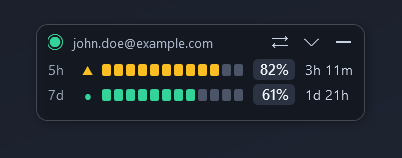
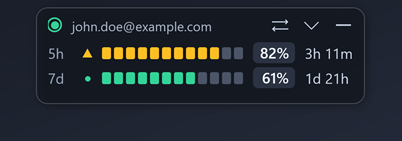
The tray shows the session, the radio is a circle, the shots are resampled
Three things, all things you notice rather than read about:

The tray number was whichever window was worst, which in practice meant the weekly -
a figure that barely moves and that nobody checks the tray for. It is the 5-hour
number now, the one being spent. The colour still follows the worst window, so the
icon can't look calm while the weekly is the thing about to stop you, the hover names
both, and the warnings still say which window they mean.

The account radio was a Segoe MDL2 glyph at 13px. Text is hinted onto whole pixels,
so depending on where the pill happened to land, the left of the ring was flattened
into a straight edge - a circle with a slice cut out of it. It is two ellipses now:
shapes are anti-aliased, not hinted, and a circle stays a circle wherever it sits.

`--demo --scale=3` lays the whole pill out three times bigger; docs/screenshots.ps1
shoots that and resamples it down, so the README images have smooth edges instead of
the app's own hinted 11px text enlarged. The menu shots use 2x, because a 3x menu is
taller than the screen and Windows scrolls it.

diff --git a/src/ClaudeBar/MainWindow.xaml b/src/ClaudeBar/MainWindow.xaml
@@ -16,6 +16,12 @@
         TextOptions.TextFormattingMode="Display"
         TextOptions.TextRenderingMode="ClearType">
 
+  <!-- Root exists to carry the screenshot scale (see Demo.ApplyScale). The transform has to
+       sit OUTSIDE the shell's margin: on the shell itself, the margin is measured in the
+       parent's space and would stay 10px while the shadow grew, which is the clipping this
+       margin exists to prevent. -->
+  <Grid x:Name="Root">
+
   <!-- The margin is the room the drop shadow falls into. Without it the blur is clipped by
        the window's own rectangle, which draws exactly what it sounds like: square, faintly
        grey corners around the rounded pill. Everything that positions the pill measures the
@@ -67,11 +73,15 @@
                   <ColumnDefinition Width="Auto"/>
                 </Grid.ColumnDefinitions>
 
-                <!-- Radio: filled for the active account; click an empty one to switch. -->
+                <!-- Radio: filled for the active account; click an empty one to switch.
+                     Two ellipses rather than a font glyph - shapes are anti-aliased, not
+                     hinted, so the ring stays a full circle wherever the pill lands. -->
                 <Border Grid.Column="0" Tag="radio" Style="{StaticResource Tap}"
                         Padding="3,1,6,1" Margin="-4,0,2,0" ToolTip="{Binding RadioTip}">
-                  <TextBlock Text="{Binding Glyph}" Foreground="{Binding GlyphBrush}"
-                             FontFamily="Segoe MDL2 Assets" FontSize="13" VerticalAlignment="Center"/>
+                  <Grid Width="12" Height="12" VerticalAlignment="Center">
+                    <Ellipse Stroke="{Binding RadioStroke}" StrokeThickness="1.3"/>
+                    <Ellipse Width="6" Height="6" Fill="{Binding RadioFill}"/>
+                  </Grid>
                 </Border>
 
                 <TextBlock Grid.Column="1" Text="{Binding Email}" Foreground="#A9B4C8"
@@ -204,4 +214,6 @@
       </StackPanel>
     </StackPanel>
   </Border>
+
+  </Grid>
 </Window>

diff --git a/src/ClaudeBar/MainWindow.xaml.cs b/src/ClaudeBar/MainWindow.xaml.cs
@@ -38,6 +38,12 @@ public partial class MainWindow : Window
         _multi = new MultiAccountUsage(_usage);
         InitializeComponent();
 
+        Demo.ApplyScale(Root);
+        if (Demo.Scale != 1)
+            // Display formatting hints glyphs onto whole pixels, which is right at the size
+            // the pill is normally drawn and wrong when the shot is about to be resampled.
+            TextOptions.SetTextFormattingMode(this, TextFormattingMode.Ideal);
+
         ApplyOpacity();
         ContextMenu = BuildMenu();
 
@@ -330,11 +336,16 @@ public partial class MainWindow : Window
         if (active is not null)
         {
             var snap = active.Snapshot;
-            var worst = snap.Worst;
+
+            // Every window, in the order the pill draws them - the icon only has room for the
+            // 5-hour number, so the hover is where the weekly gets to say its piece.
+            var summary = string.Join("  ", snap.Limits.Select(l =>
+                l.ShortLabel + " " + l.Percent.ToString("0") + "%"));
+
             _tray?.Update(
                 !snap.HasData ? "ClaudeBar - " + (snap.Error ?? "starting")
-                : worst is null ? "ClaudeBar"
-                : worst.ShortLabel + " " + worst.Percent.ToString("0") + "%",
+                : summary.Length == 0 ? "ClaudeBar"
+                : summary,
                 snap.HasData && !snap.Ok ? snap with { Error = null } : snap);
         }
 
@@ -360,7 +371,8 @@ public partial class MainWindow : Window
         {
             var scale = VisualTreeHelper.GetDpi(this).DpiScaleX;
             if (scale <= 0 || double.IsNaN(scale)) scale = 1.0;
-            return (int)Math.Round(ShadowDip * scale);
+            // The screenshot scale sits outside the margin, so it multiplies it too.
+            return (int)Math.Round(ShadowDip * scale * Demo.Scale);
         }
     }
 
@@ -607,6 +619,7 @@ public partial class MainWindow : Window
     public ContextMenu BuildMenu()
     {
         var menu = new ContextMenu();
+        Demo.ApplyScale(menu); // a menu at 1x in a 3x shot would resample into mush
 
         var refresh = new MenuItem { Header = "Refresh now" };
         refresh.Click += async (_, _) => await RefreshAsync();
@@ -767,6 +780,7 @@ public partial class MainWindow : Window
             PlacementTarget = this,
             Placement = System.Windows.Controls.Primitives.PlacementMode.MousePoint
         };
+        Demo.ApplyScale(picker);
         foreach (var item in AccountItems()) picker.Items.Add(item);
         picker.IsOpen = true;
     }

diff --git a/src/ClaudeBar/TrayController.cs b/src/ClaudeBar/TrayController.cs
@@ -105,12 +105,22 @@ public sealed class TrayController : IDisposable
         _icon.Text = text.Length > 62 ? text[..62] : text;
 
         var worst = snapshot.Worst;
-        var percent = worst?.Percent ?? 0;
+
+        // The NUMBER is the 5-hour window: that is the one being spent right now, and the one
+        // a glance at the tray is asking about. The weekly moves slowly and is in the tooltip.
+        var session = snapshot.Limits.FirstOrDefault(l => l.Kind == "session" || l.Group == "session")
+                      ?? worst;
+        var percent = session?.Percent ?? 0;
+
+        // The COLOUR still follows whichever window is worst, so the icon can never look calm
+        // while the weekly is the thing about to stop you.
+        var alarming = worst?.Percent ?? percent;
+
         // 3 = the wall itself. It gets its own announcement: "nearly gone" at 100% is wrong.
         var level = !snapshot.Ok ? -1
-            : percent >= 100 ? 3
-            : percent >= _settings.CriticalAt ? 2
-            : percent >= _settings.WarnAt ? 1
+            : alarming >= 100 ? 3
+            : alarming >= _settings.CriticalAt ? 2
+            : alarming >= _settings.WarnAt ? 1
             : 0;
 
         var old = _current;
@@ -121,6 +131,8 @@ public sealed class TrayController : IDisposable
         // Warn on the way up only, once per threshold crossing. Uses ClaudeBar's own toast:
         // shell balloons get titled with the app's AppUserModelID when it has no registered
         // shell identity, which is where "Microsoft.Explorer.Notification..." came from.
+        // Warnings stay keyed to the worst window, and name it, so a weekly running out is
+        // still announced even while the icon is showing a comfortable session number.
         if (level > 0 && level > _lastAnnouncedLevel && snapshot.Ok && worst is not null)
         {
             var title = level switch
@@ -133,7 +145,7 @@ public sealed class TrayController : IDisposable
                 ? $"{worst.ShortLabel} window is used up" +
                   (worst.ResetText.Length > 0 ? $" - resets in {worst.ResetText}. " : ". ") +
                   "Switch account from the menu to carry on."
-                : $"{worst.ShortLabel} window at {percent:0}%" +
+                : $"{worst.ShortLabel} window at {worst.Percent:0}%" +
                   (worst.ResetText.Length > 0 ? $", resets in {worst.ResetText}" : "");
             _window.Dispatcher.Invoke(() => _window.ShowToast(title, body, Math.Min(level, 2)));
         }

diff --git a/src/ClaudeBar/AccountView.cs b/src/ClaudeBar/AccountView.cs
@@ -17,8 +17,12 @@ public sealed class AccountView
 {
     public string AccountUuid { get; init; } = "";
     public string Email { get; init; } = "";
-    public string Glyph { get; init; } = "";
-    public Brush GlyphBrush { get; init; } = LimitRow.Muted;
+
+    // The radio is drawn, not typed. As a Segoe MDL2 glyph at 13px it was hinted onto whole
+    // pixels, and depending on where the pill happened to sit, the hinting flattened the left
+    // side of the ring into a straight edge - a circle with a slice missing.
+    public Brush RadioStroke { get; init; } = LimitRow.Muted;
+    public Brush RadioFill { get; init; } = Brushes.Transparent;
     public string Status { get; init; } = "";
     public Brush StatusBrush { get; init; } = LimitRow.Muted;
     public bool IsActive { get; init; }
@@ -74,9 +78,8 @@ public sealed class AccountView
             AccountUuid = usage.Account.AccountUuid,
             ShowingAll = showingAll,
             Email = usage.Account.Label,
-            // Segoe MDL2 Assets: RadioBtnOn / RadioBtnOff.
-            Glyph = usage.IsActive ? "" : "",
-            GlyphBrush = usage.IsActive ? LimitRow.Normal : LimitRow.Muted,
+            RadioStroke = usage.IsActive ? LimitRow.Normal : LimitRow.Muted,
+            RadioFill = usage.IsActive ? LimitRow.Normal : Brushes.Transparent,
             Status = status,
             StatusBrush = brush,
             IsActive = usage.IsActive,

diff --git a/src/ClaudeBar/Demo.cs b/src/ClaudeBar/Demo.cs
@@ -1,3 +1,5 @@
+using System.Windows;
+using System.Windows.Media;
 using ClaudeBar.Models;
 using ClaudeBar.Services;
 
@@ -21,7 +23,26 @@ internal static class Demo
 {
     public static bool Enabled { get; private set; }
 
-    public static void Enable() => Enabled = true;
+    /// <summary>
+    /// Layout scale for screenshots: `--demo --scale=3` lays the whole pill out three times
+    /// bigger, and the capture script shrinks the shot back down. Text, the segment bars and
+    /// the glyphs are all drawn at the larger size and then resampled, which is what makes a
+    /// README image look like the app instead of like a magnified screenshot of it.
+    /// </summary>
+    public static double Scale { get; private set; } = 1;
+
+    public static void Enable(double scale = 1)
+    {
+        Enabled = true;
+        Scale = scale is >= 1 and <= 8 ? scale : 1;
+    }
+
+    /// <summary>Applies the screenshot scale to a pill or a menu. A no-op outside demo mode.</summary>
+    public static void ApplyScale(FrameworkElement? element)
+    {
+        if (element is null || Scale == 1) return;
+        element.LayoutTransform = new ScaleTransform(Scale, Scale);
+    }
 
     private static readonly DateTimeOffset Started = DateTimeOffset.UtcNow;
 

diff --git a/src/ClaudeBar/App.xaml.cs b/src/ClaudeBar/App.xaml.cs
@@ -20,8 +20,17 @@ public partial class App : Application
         }
 
         // Invented accounts for the README's screenshots. Must be set before the window is
-        // built: it decides, once, whether anything real is ever read.
-        if (e.Args.Contains("--demo")) Demo.Enable();
+        // built: it decides, once, whether anything real is ever read. `--scale=3` lays the
+        // pill out three times bigger for a shot that survives being resampled.
+        if (e.Args.Contains("--demo"))
+        {
+            var scaleArg = e.Args.FirstOrDefault(a => a.StartsWith("--scale=", StringComparison.Ordinal));
+            var scale = scaleArg is null ? 1
+                : double.TryParse(scaleArg["--scale=".Length..],
+                    System.Globalization.NumberStyles.Float,
+                    System.Globalization.CultureInfo.InvariantCulture, out var parsed) ? parsed : 1;
+            Demo.Enable(scale);
+        }
 
         // One pill only: a second copy would just double the polling and fight over settings.json.
         // A demo pill is a different thing and gets its own name, so it can sit beside a real one.

diff --git a/README.md b/README.md
@@ -24,7 +24,9 @@ estimate from transcripts.
   `claude auth login`, or the menu's *Add an account* — and ClaudeBar notices within a second
   and remembers it. No extra step.
 - **Stays out of the way.** Minimize (`–`) to a single line of numbers, or hide it entirely
-  and read the percentage off the tray icon — it draws the number. Snaps to any screen edge or corner on any
+  and read the percentage off the tray icon — it draws the number: the 5-hour one, since that
+  is the window you are spending. Hovering it shows both, and the colour still follows
+  whichever window is closest to its ceiling. Snaps to any screen edge or corner on any
   monitor, remembers where you put it, starts with Windows if you want.
 
 Every account at once (`▾`) — one is nearly out, one has a week's headroom, and the radio
@@ -104,7 +106,9 @@ Nothing to bump by hand.
 
 `--demo` replaces the account store and the usage endpoint with three invented accounts. It
 reads no credentials, writes no settings, and cannot switch or sign in to anything; it exists
-so the screenshots above can be re-taken by anyone, with `docs/screenshots.ps1`.
+so the screenshots above can be re-taken by anyone, with `docs/screenshots.ps1`. Add
+`--scale=3` and the whole pill is laid out three times bigger — the script shoots that and
+resamples it down, which is why the images have smooth edges rather than magnified pixels.
 
 ## Colour
 
